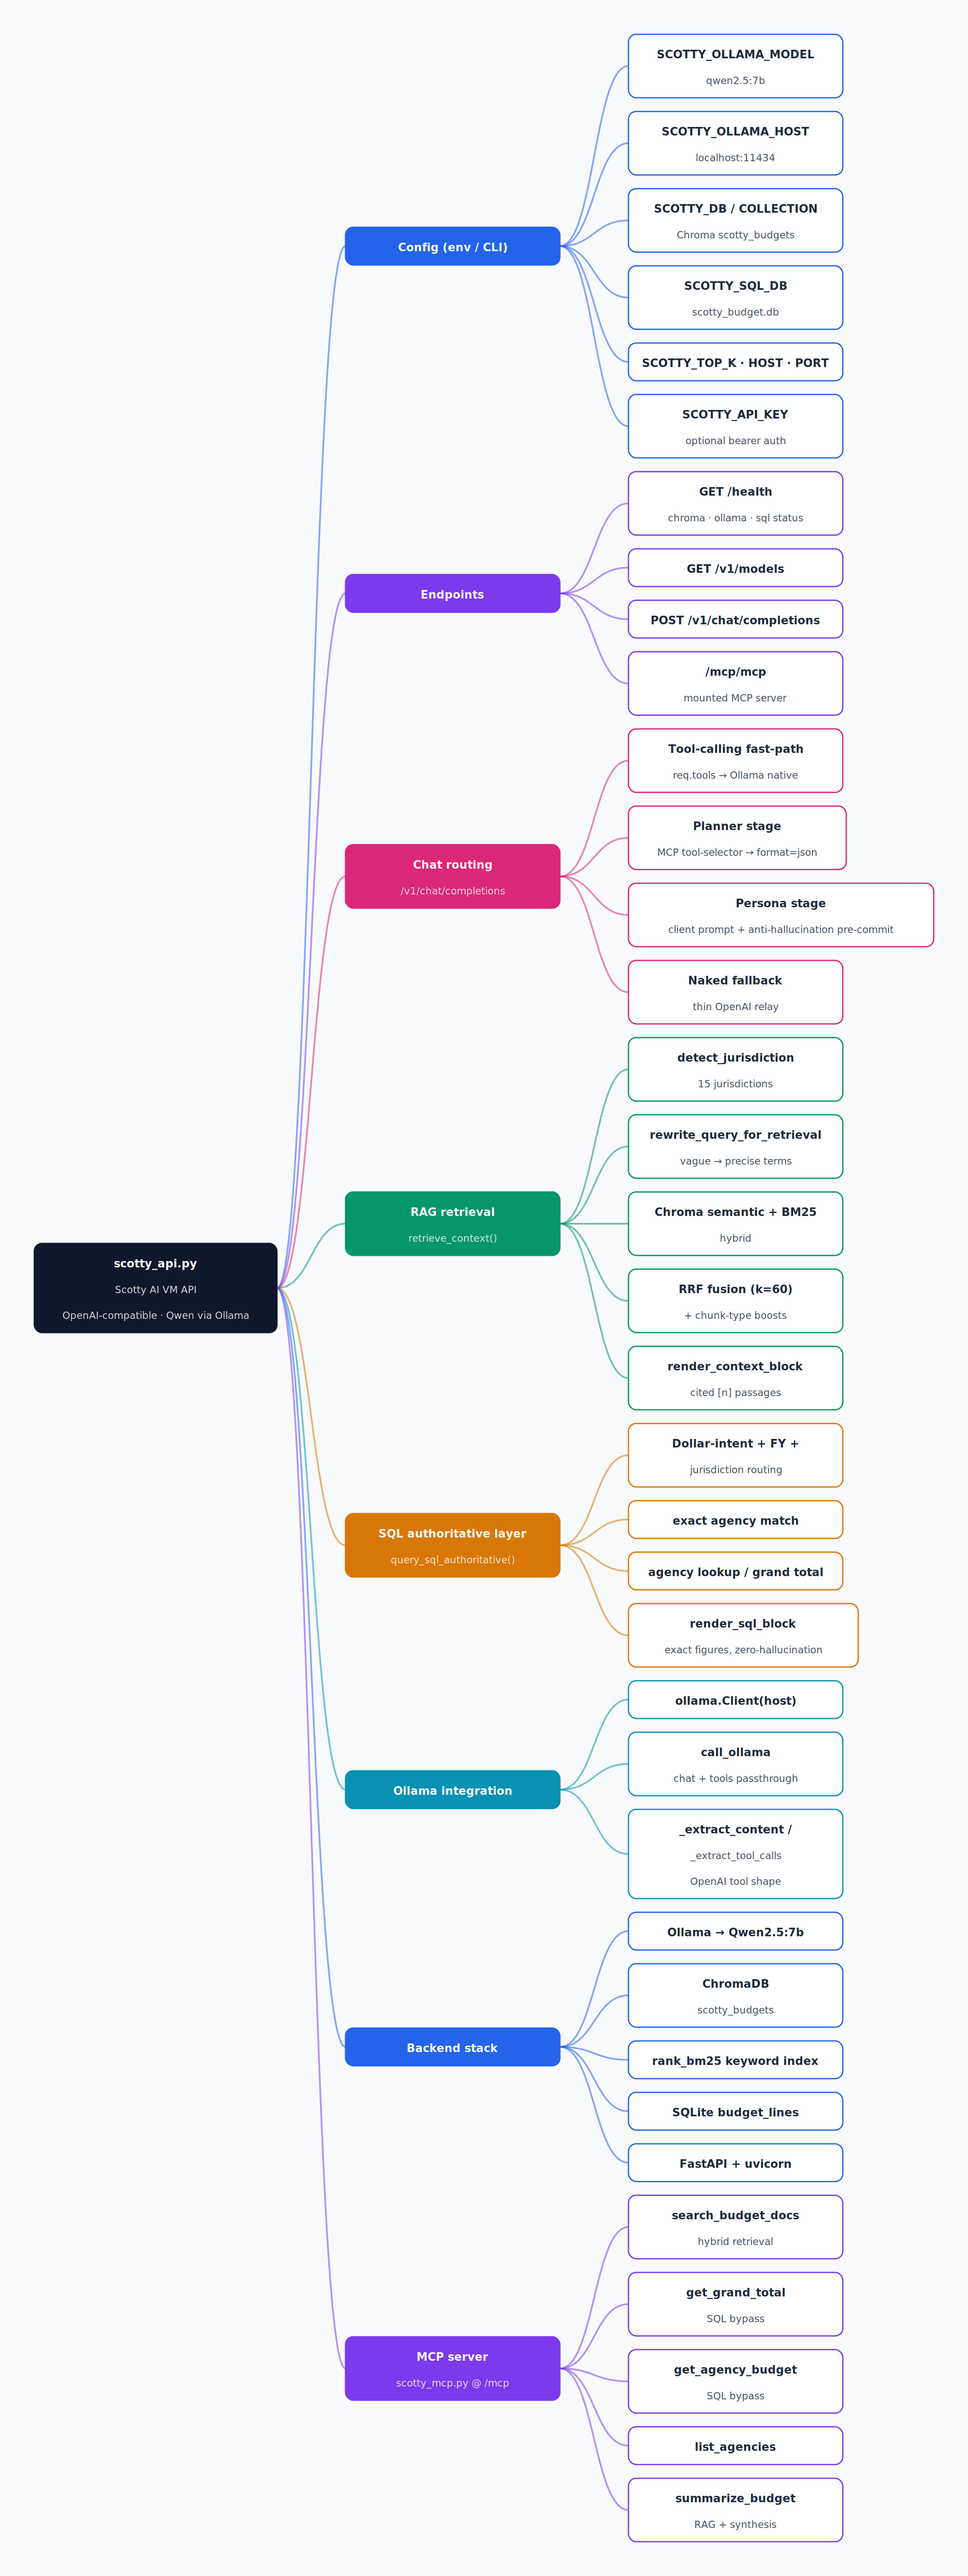
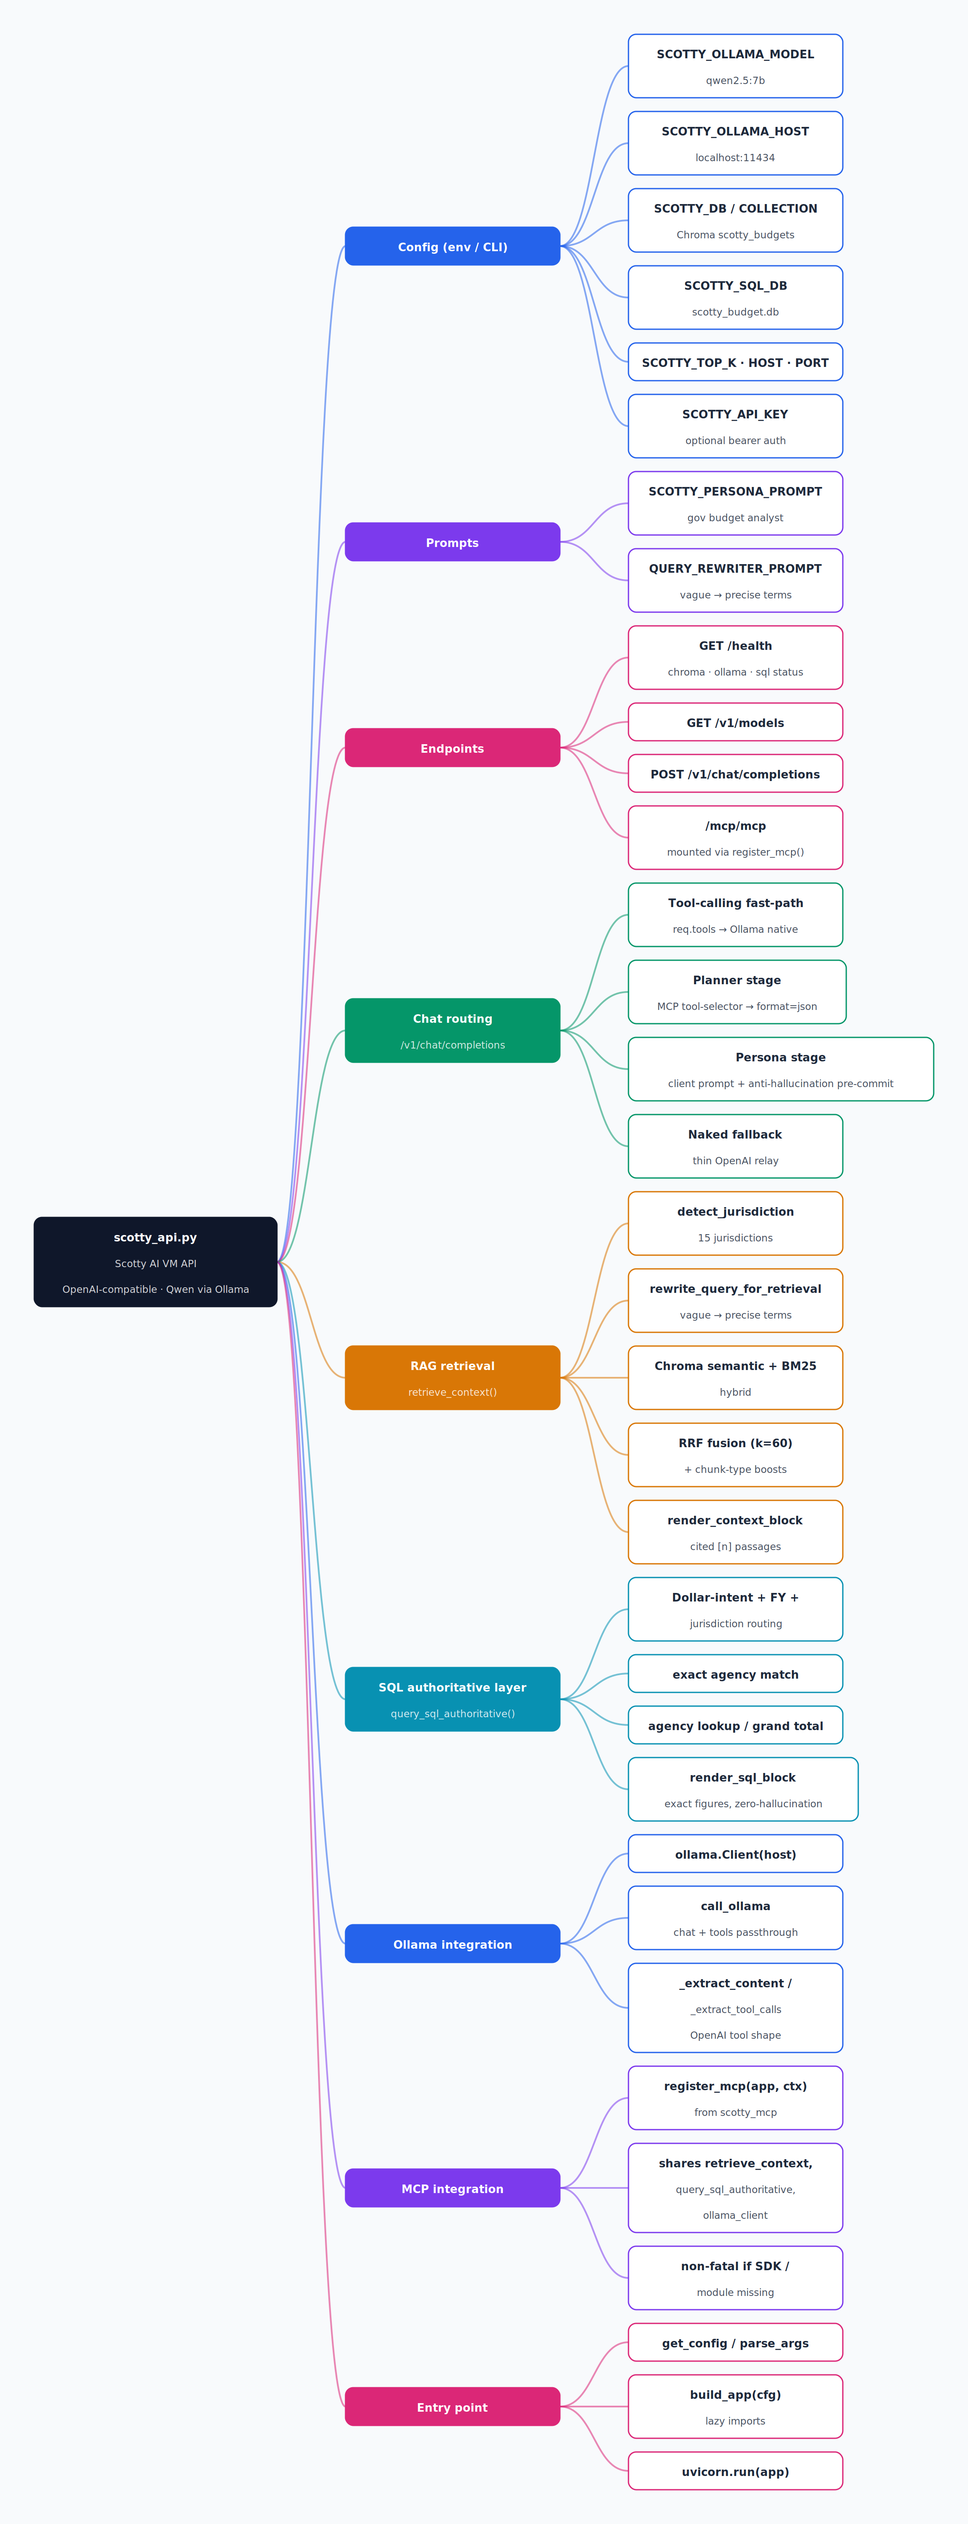
Scope mindmap to scotty_api.py only
Drops the scotty_mcp.py tool details (defined in the other module) and
instead shows the MCP wiring (register_mcp) as it appears in the API
file. Adds the Prompts and Entry point branches that live in
scotty_api.py.

https://claude.ai/code/session_016CiD6z29E6G3VJUwShEPDw

diff --git a/docs/generate_mindmap.py b/docs/generate_mindmap.py
@@ -1,8 +1,11 @@
 """
 Generate a mindmap diagram of scotty_api.py — the Scotty AI VM API that
 serves Qwen2.5 (via Ollama) behind an OpenAI-compatible endpoint, with
-hybrid RAG, a SQL authoritative layer, and a mounted MCP server
-(scotty_mcp.py).
+hybrid RAG and a SQL authoritative layer.
+
+Scoped to scotty_api.py only: the MCP tool definitions live in
+scotty_mcp.py, so this diagram shows just the MCP *wiring* (register_mcp)
+as it appears in the API file.
 
 Lays the node tree out left-to-right and emits an SVG; if cairosvg is
 installed it also rasterises a PNG. Run from the repo root:
@@ -12,7 +15,7 @@ installed it also rasterises a PNG. Run from the repo root:
 
 from pathlib import Path
 
-# (label, [children]) — the structure of scotty_api.py (+ scotty_mcp.py).
+# (label, [children]) — the structure of scotty_api.py (this file only).
 TREE = (
     "scotty_api.py\nScotty AI VM API\nOpenAI-compatible · Qwen via Ollama",
     [
@@ -24,11 +27,15 @@ TREE = (
             ("SCOTTY_TOP_K · HOST · PORT", []),
             ("SCOTTY_API_KEY\noptional bearer auth", []),
         ]),
+        ("Prompts", [
+            ("SCOTTY_PERSONA_PROMPT\ngov budget analyst", []),
+            ("QUERY_REWRITER_PROMPT\nvague → precise terms", []),
+        ]),
         ("Endpoints", [
             ("GET /health\nchroma · ollama · sql status", []),
             ("GET /v1/models", []),
             ("POST /v1/chat/completions", []),
-            ("/mcp/mcp\nmounted MCP server", []),
+            ("/mcp/mcp\nmounted via register_mcp()", []),
         ]),
         ("Chat routing\n/v1/chat/completions", [
             ("Tool-calling fast-path\nreq.tools → Ollama native", []),
@@ -54,19 +61,15 @@ TREE = (
             ("call_ollama\nchat + tools passthrough", []),
             ("_extract_content /\n_extract_tool_calls\nOpenAI tool shape", []),
         ]),
-        ("Backend stack", [
-            ("Ollama → Qwen2.5:7b", []),
-            ("ChromaDB\nscotty_budgets", []),
-            ("rank_bm25 keyword index", []),
-            ("SQLite budget_lines", []),
-            ("FastAPI + uvicorn", []),
+        ("MCP integration", [
+            ("register_mcp(app, ctx)\nfrom scotty_mcp", []),
+            ("shares retrieve_context,\nquery_sql_authoritative,\nollama_client", []),
+            ("non-fatal if SDK /\nmodule missing", []),
         ]),
-        ("MCP server\nscotty_mcp.py @ /mcp", [
-            ("search_budget_docs\nhybrid retrieval", []),
-            ("get_grand_total\nSQL bypass", []),
-            ("get_agency_budget\nSQL bypass", []),
-            ("list_agencies", []),
-            ("summarize_budget\nRAG + synthesis", []),
+        ("Entry point", [
+            ("get_config / parse_args", []),
+            ("build_app(cfg)\nlazy imports", []),
+            ("uvicorn.run(app)", []),
         ]),
     ],
 )

diff --git a/docs/scotty_vm_api_mindmap.md b/docs/scotty_vm_api_mindmap.md
@@ -3,10 +3,13 @@
 Mindmap of the FastAPI server that runs on the GPU VM and serves a local
 **Qwen2.5** model (via Ollama) behind an **OpenAI-compatible**
 `/v1/chat/completions` endpoint — a drop-in replacement for the Grok
-backend. It adds hybrid RAG (ChromaDB + BM25), a SQL authoritative layer
-for exact figures, and a mounted MCP server (`scotty_mcp.py`).
+backend. It adds hybrid RAG (ChromaDB + BM25) and a SQL authoritative
+layer for exact figures.
 
-The rendered image is generated by `docs/generate_mindmap.py`.
+Scoped to `scotty_api.py` only — the MCP *tools* are defined in
+`scotty_mcp.py`, so this diagram shows just the MCP wiring (`register_mcp`)
+as it appears in the API file. The rendered image is generated by
+`docs/generate_mindmap.py`.
 
 ![scotty_api.py mindmap](scotty_vm_api_mindmap.png)
 
@@ -22,11 +25,14 @@ mindmap
       SCOTTY_SQL_DB — scotty_budget.db
       SCOTTY_TOP_K, HOST, PORT
       SCOTTY_API_KEY — optional bearer auth
+    Prompts
+      SCOTTY_PERSONA_PROMPT — gov budget analyst
+      QUERY_REWRITER_PROMPT — vague to precise terms
     Endpoints
       GET /health — chroma, ollama, sql status
       GET /v1/models
       POST /v1/chat/completions
-      /mcp/mcp — mounted MCP server
+      /mcp/mcp — mounted via register_mcp()
     Chat routing (/v1/chat/completions)
       Tool-calling fast-path — req.tools to Ollama native
       Planner stage — MCP tool-selector, format=json
@@ -47,18 +53,14 @@ mindmap
       ollama.Client(host)
       call_ollama — chat + tools passthrough
       _extract_content / _extract_tool_calls — OpenAI tool shape
-    Backend stack
-      Ollama to Qwen2.5:7b
-      ChromaDB — scotty_budgets
-      rank_bm25 keyword index
-      SQLite budget_lines
-      FastAPI + uvicorn
-    MCP server — scotty_mcp.py @ /mcp
-      search_budget_docs — hybrid retrieval
-      get_grand_total — SQL bypass
-      get_agency_budget — SQL bypass
-      list_agencies
-      summarize_budget — RAG + synthesis
+    MCP integration
+      register_mcp(app, ctx) — from scotty_mcp
+      shares retrieve_context, query_sql_authoritative, ollama_client
+      non-fatal if SDK / module missing
+    Entry point
+      get_config / parse_args
+      build_app(cfg) — lazy imports
+      uvicorn.run(app)
 ```
 
 ## Regenerate
